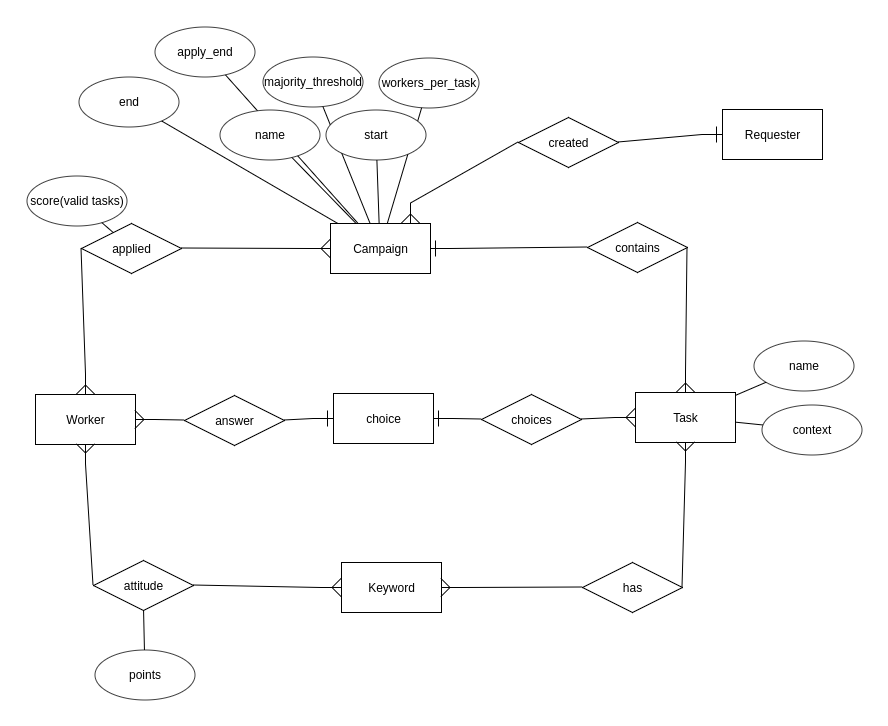
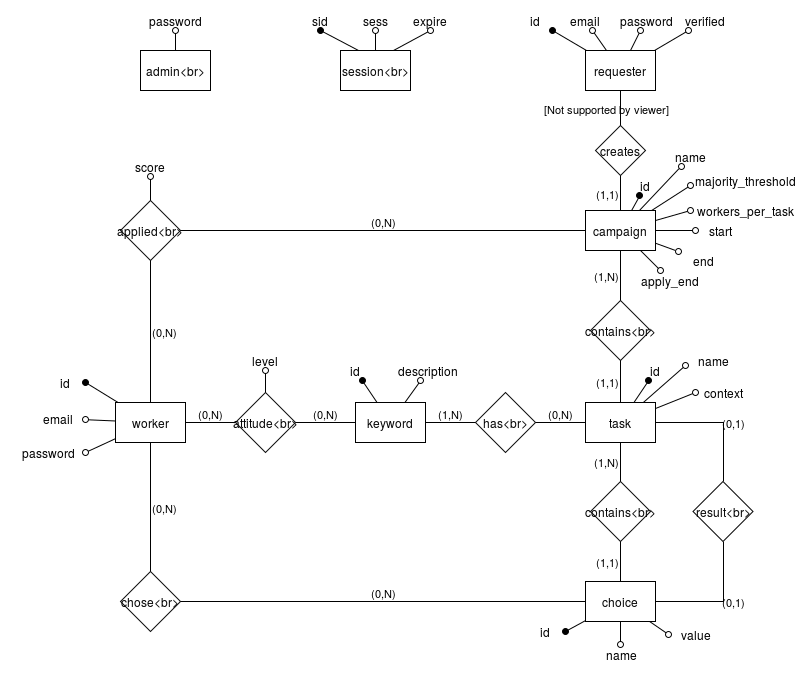
relazione latex

diff --git a/progetto/relazione.tex b/progetto/relazione.tex
@@ -1,0 +1,127 @@
+\documentclass[a4paper]{article}
+
+%% Language and font encodings
+\usepackage[italian]{babel}
+\usepackage[utf8x]{inputenc}
+\usepackage[T1]{fontenc}
+
+%% Sets page size and margins
+\usepackage[a4paper,top=3cm,bottom=2cm,left=3cm,right=3cm,marginparwidth=1.75cm]{geometry}
+
+%% Useful packages
+\usepackage{amsmath}
+\usepackage{graphicx}
+\usepackage[colorinlistoftodos]{todonotes}
+\usepackage[colorlinks=true, allcolors=blue]{hyperref}
+\usepackage{float}
+\usepackage[normalem]{ulem}
+
+\title{Relazione tecnica progetto database}
+\author{Anton Kozhin}
+
+\begin{document}
+\maketitle
+
+\section{Strumenti software}
+\begin{itemize}
+\item Docker
+\item PostgreSQL
+\item NodeJs
+\item SCSS
+\item HTML5
+\item mustache
+\item js
+\end{itemize}
+
+\section{Progettazione database}
+\subsection{Schema ER}
+
+\begin{figure}[H]
+\includegraphics[width=\textwidth]{ER.png}
+%\caption{ER}
+\end{figure}
+
+\subsubsection{Considerazioni su schema ER}
+Ci sono tre tipologie di utenti, worker, requester e admin.
+L'admin e' un utente unico con nome utente predefinito e password modificabile.
+Mentre il numero di worker e requester non e' fissato. Hanno inoltre attributi simili, ma il requester ne presenta uno in piu', e hanno relazioni diverse.
+Quindi ho scelto di mantenere le entita' figlie invece di raggrupparle in un'entita' padre. Mantenendo cosi' le singole tabelle a risparmio dello spazio che avrebbe occupato ogni worker con un attributo sempre null.
+
+\subsection{Schema relazionale}
+Le chiavi esterne sono in corsivo. Se non specificato tra parentesi si riferiscono all'attributo \verb|id| della tabella con lo stesso nome della chiave esterna. Le chiavi primarie sono sottolineate. Gli attributi opzionali sono indicati con un asterisco.
+\\\\
+requester(\underline{id}, email, password, verified)
+\\
+worker(\underline{id}, email, password)
+\\
+campaign(\uline{id}, name, majority\_threshold, workers\_per\_task, start, end, apply\_end, \textit{requester})
+\\
+task(\uline{id}, name, context, \textit{campaign}, \textit{result}$^*$(choice))
+\\
+choice(\uline{id}, name, value, \textit{task})
+\\
+keyword(\uline{id}, description)
+\\
+task\_keyword(\uline{\textit{task}, \textit{keyword}})
+\\
+worker\_attitude(\uline{\textit{worker}, \textit{keyword}}, level)
+\\
+worker\_campaign(\uline{\textit{worker}, \textit{campaign}}, score$^{*}$)
+\\
+worker\_choice(\uline{worker, choice})
+\\
+session(\uline{sid}, sess, expire)
+\\
+admin(password)
+
+\subsection{Scelte progettuali}
+\subsubsection{Gestione keyword}
+Le keyword sono gestite con dei suggerimenti proposti al requester per la keyword che st\`a digitando.
+I suggerimenti sono l'insieme delle keyword tali che l'input dell'utente ne è una sottostringa.
+In questo modo l'utente ha tutta la liberta di scegliere le keyword che desidera tenendo sott'occhio le keyword "simili" gia conosciute dall'applicazione.
+
+Questa soluzione permette di evitare doppioni dovuti all'uso del plurale e altri suffissi o prefissi.
+La scelta di suggerire keyword che contengono l'input dell'utente come sottostringa è dovuta alla disponibilita dell'operatore sql \verb|like| e la sua semplicita di utilizzo.
+
+\subsubsection{Profilo lavoratore}
+Il grado di competenza/attitudine di un lavoratore rispetto ad una keyword è rappresentato da un numero intero positivo.
+Una keyword non associata al lavoratore si considera a livello zero.
+Tutti i lavoratori al momento dell'iscrizione, non hanno keyword associate e quindi hanno tutte le competenze/attitudini a livello zero.
+Successivamente allo svolgimento di un task che risulta valido, vengono aggiornati i profili dei lavoratori che lo hanno eseguito, incrementando o decrementando di uno il livelo delle keyword associate al task.
+
+Tutte le competenze/attitudini che si trovano a livello zero in un certo istante, vengono disassociate dal profilo del lavoratore in quanto il livello zero è sottinteso per tutte le keyword per tutti i lavoratori se non altrimenti specificato.
+
+\subsubsection{Assegnazione task}
+Responsabilit\`a della funzione pl/pgsql \verb|assign_task| nel file \verb|db/sql/1-functions.sql|.\\
+
+L'assegnazione di un task al lavoratore che ne fa richiesta all'interno di una campagna di lavoro è gestita mediante un indice detto $P$ calcolato per ogni task della della campagna di lavoro.
+
+Dato un lavoratore che fa richiesta di un task, gli verr\`a assegnato il task con l'indice $P$ massimo tra i task non completati di quella campagna.
+$$
+P(task) = \sum_{keyword \in task}{livello\_lavoratore(keyword)}
+$$
+Per esempio un lavoratore appena iscritto ha tutte le competenze/attitudini a livello zero, quindi la scelta del task da assegnare diventa casuale.
+Cosicch\`e al lavoratore non sia preclusa la possibilita' di eseguire task che non gli competono in parte o completamente. Al fine di permettere ai lavoratori di modellare indipendentemente e "inconsciamente" il proprio profilo per rispecchiare il piu possibile la realt\`{a}.
+
+\subsubsection{Aggiornamento profilo lavoratore}
+Responsabilit\`{a} della funzione trigger \verb|complete_task| nel file \verb|db/sql/1-functions.sql|.
+\\
+Dato che tutti i lavoratori hanno tutte le keyword a livello zero se non altrimenti specificato.
+L'aggiornamento del profilo di un lavoratore avviene incrementando o decrementando di uno il livello associato alla keyword, in base all'appartenenza del lavoratore al gruppo che ha dato la risposta maggioritaria.
+
+Se la keyword viene decrementata al livello zero viene disassociata dal lavoratore e assume il suo valore di default che e' zero, altrimenti, se la keyword viene incrementata a livello uno, dovra' essere associata al lavoratore esplicitamente in quanto possiede ora un livello maggiore di zero.
+
+\section{Applicazione web}
+\subsection{Backend}
+Ho utilizzato la libreria express per nodeJs perch\`e ritengo sia ideale per un'applicazione basata sulla base di dati. Principalmente perch\'e utizza il paradigma single thread, che permette di effettuare chiamate non bloccanti alla base di dati che gestisce il carico di lavoro.
+
+\subsection{Frontend}
+Sviluppato principalmente in HTML5, css(scss) e javaScript.
+Ho utilizzato la libreria css skeleton per aiutarmi nello stile e nell'impaginazione, e la libreria javaScript awesomeplete per il sistema di suggerimenti per le keyword durante la creazione di un task.
+
+I sorgenti HTML sono nel formato di template Mustache,
+per permettere la creazione dinamica delle pagine.
+
+
+
+\end{document}
